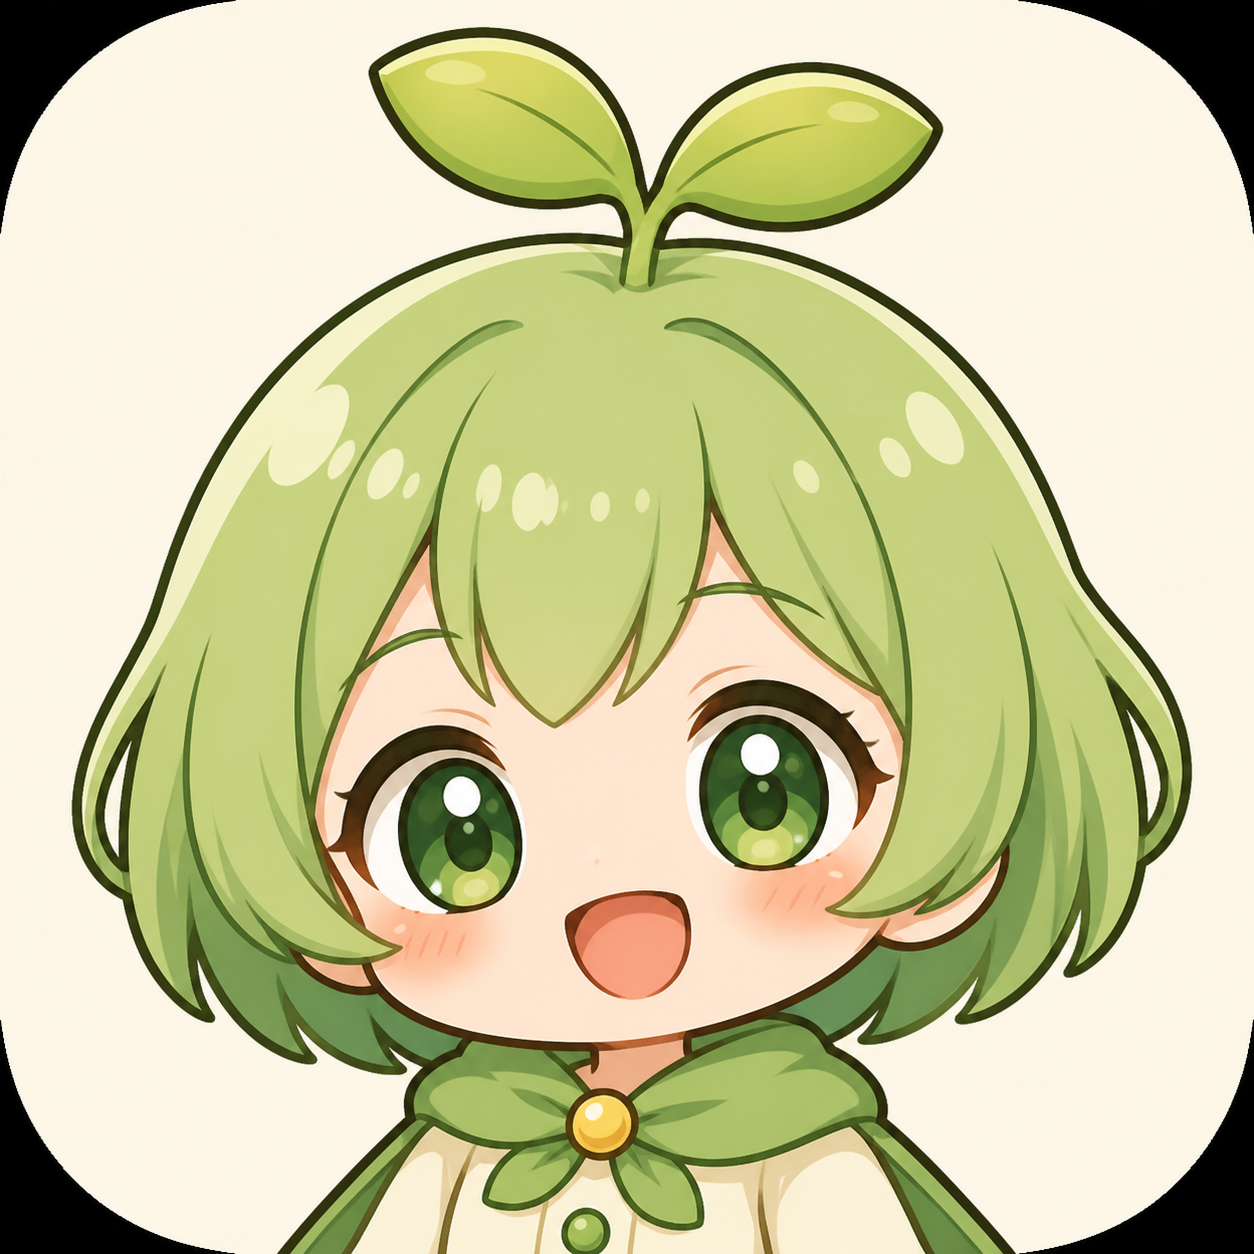
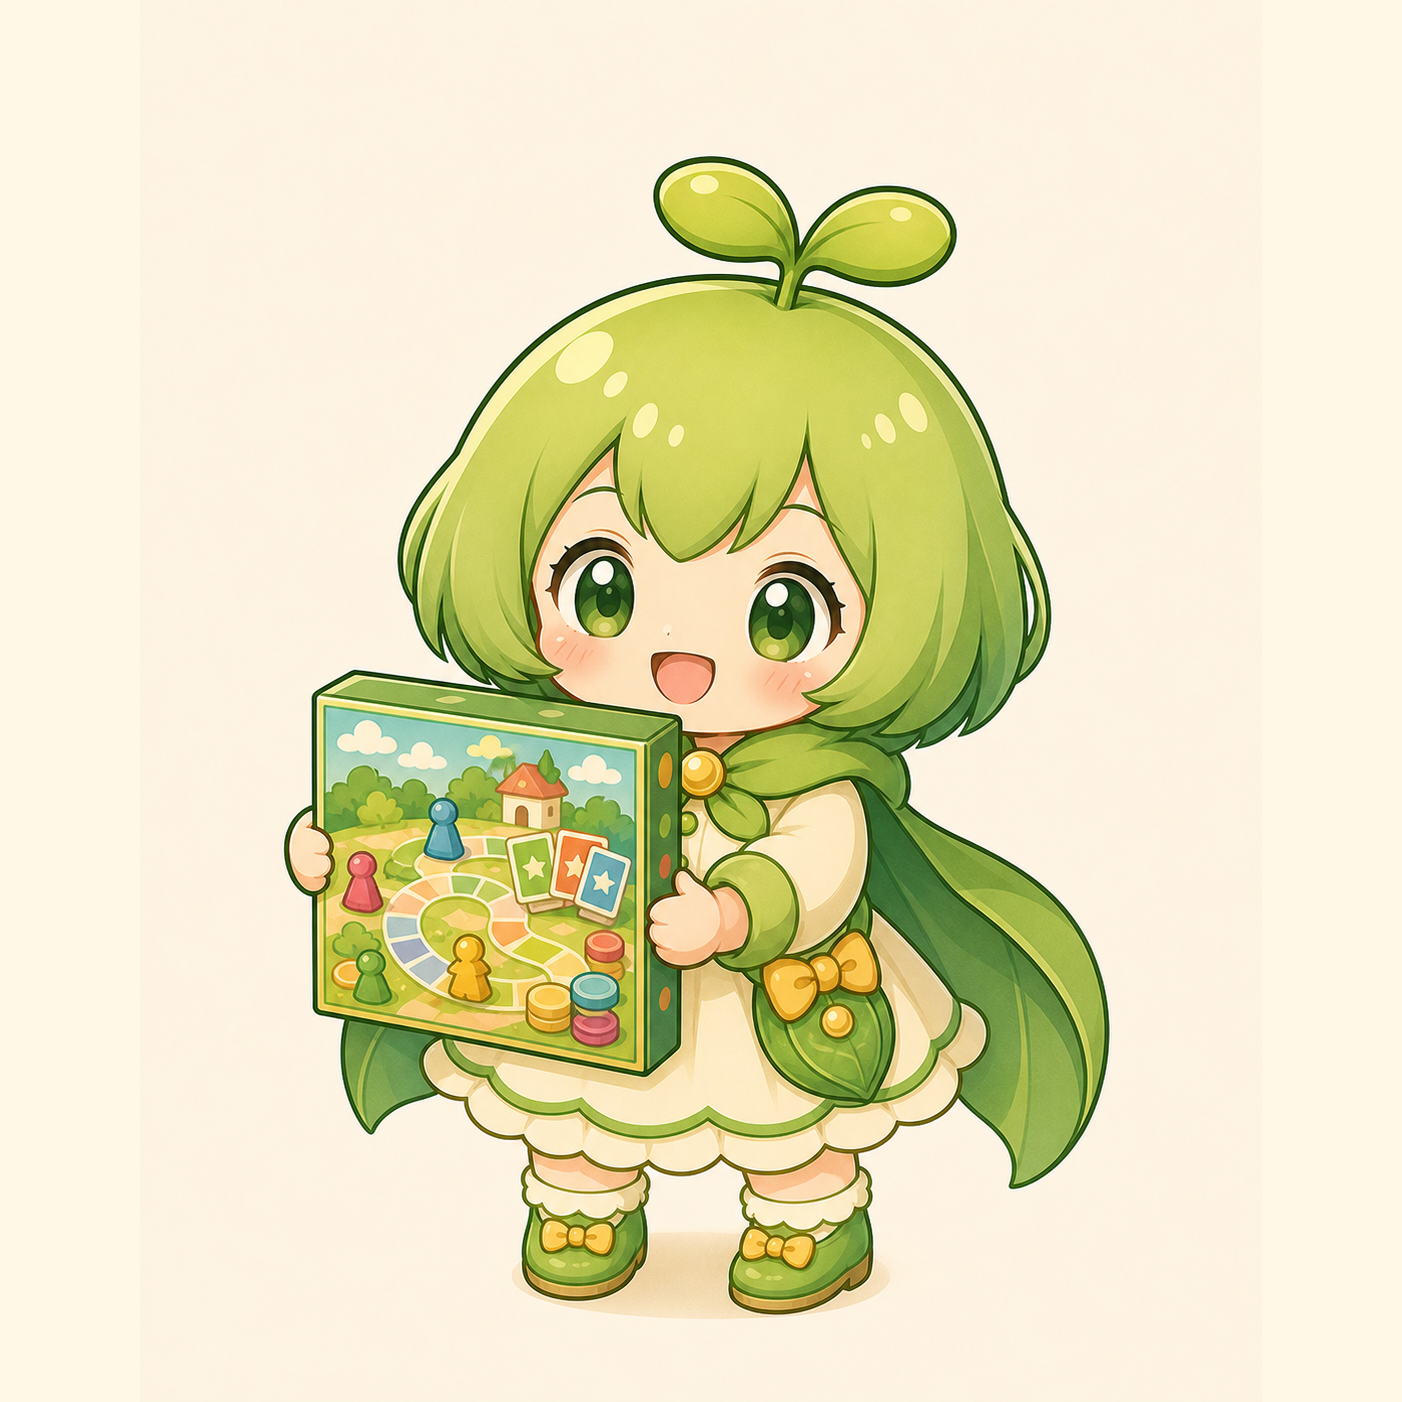
Swap mascot to Mamemaru design

diff --git a/index.html b/index.html
@@ -3,9 +3,9 @@
 <head>
   <meta charset="UTF-8">
   <meta name="viewport" content="width=device-width, initial-scale=1.0">
-  <title>ボドまめちゃんと決める えんどーけのボドゲ予定表</title>
+  <title>まめまるちゃんと決める えんどーけのボドゲ予定表</title>
   <meta name="theme-color" content="#06D6A0">
-  <meta name="description" content="えんどーけのボドゲ大会の日程を、ボドまめちゃんと一緒に決める予定表アプリです。">
+  <meta name="description" content="えんどーけのボドゲ大会の日程を、まめまるちゃんと一緒に決める予定表アプリです。">
   <link rel="manifest" href="manifest.webmanifest">
   <link rel="icon" href="assets/bodomame-chan-icon.png">
   <link rel="apple-touch-icon" href="assets/bodomame-chan-icon.png">
@@ -123,10 +123,12 @@
       min-width: 0;
     }
     .brand-mascot {
-      width: 56px;
-      height: 56px;
+      width: 54px;
+      height: 70px;
       border-radius: 18px;
       flex: 0 0 auto;
+      object-fit: contain;
+      padding: 2px;
     }
     .brand-copy { min-width: 0; }
     .brand-side-icon { margin-left: 2px; }
@@ -570,6 +572,7 @@
       width: 92px;
       aspect-ratio: 1;
       border-radius: 24px;
+      object-fit: contain;
     }
     .empty-icons {
       display: flex;
@@ -944,6 +947,7 @@
       width: 150px;
       aspect-ratio: 1;
       border-radius: 28px;
+      object-fit: contain;
     }
     .welcome-card h2 { font-size: 1.45em; margin-bottom: 6px; font-weight: 900; }
     .welcome-card p { color: var(--text-muted); }
@@ -1053,7 +1057,7 @@
       .app-bar { padding: 10px 12px; align-items: flex-start; }
       .app-bar h1 { font-size: 0.92em; }
       .brand { gap: 8px; }
-      .brand-mascot { width: 48px; height: 48px; border-radius: 16px; }
+      .brand-mascot { width: 46px; height: 62px; border-radius: 16px; }
       .brand-side-icon { display: none; }
       .brand-kicker { font-size: 0.68em; }
       .app-bar-actions { gap: 6px; justify-content: flex-end; }
@@ -1092,9 +1096,9 @@
   <!-- App bar -->
   <div class="app-bar">
     <div class="brand">
-      <img class="mascot-img brand-mascot" src="assets/bodomame-chan-icon.png" alt="ボドまめちゃん">
+      <img class="mascot-img brand-mascot" src="assets/bodomame-chan-icon.png" alt="まめまるちゃん">
       <div class="brand-copy">
-        <span class="brand-kicker">ボドまめちゃんと決める</span>
+        <span class="brand-kicker">まめまるちゃんと決める</span>
         <h1>えんどーけのボドゲ予定表</h1>
       </div>
       <span class="game-icon box brand-side-icon" aria-hidden="true"></span>
@@ -1110,11 +1114,11 @@
     <section id="welcome-view" class="hidden">
       <div class="welcome-card">
         <div class="welcome-hero">
-          <img class="mascot-img welcome-mascot" src="assets/bodomame-chan-main.png" alt="ボドまめちゃん">
+          <img class="mascot-img welcome-mascot" src="assets/bodomame-chan-main.png" alt="まめまるちゃん">
           <div>
-            <span class="mascot-name">ボドまめちゃん</span>
+            <span class="mascot-name">まめまるちゃん</span>
             <h2>ボドゲ会、まめに決めよう</h2>
-            <p>最初にメンバーを登録しましょう。ボドまめちゃんが、行ける日と候補日を見やすくまとめます。</p>
+            <p>最初にメンバーを登録しましょう。まめまるちゃんが、行ける日と候補日を見やすくまとめます。</p>
           </div>
         </div>
 
@@ -1149,9 +1153,9 @@
         </div>
 
         <div class="mascot-guide">
-          <img class="mascot-img guide-mascot" src="assets/bodomame-chan-icon-guide.png" alt="ボドまめちゃん">
+          <img class="mascot-img guide-mascot" src="assets/bodomame-chan-icon-guide.png" alt="まめまるちゃん">
           <div>
-            <div class="guide-title">ボドまめちゃんの見かた</div>
+            <div class="guide-title">まめまるちゃんの見かた</div>
             <div class="guide-text">行ける日は <span class="hint-inline o">○</span>、迷う日は <span class="hint-inline tri">△</span>。入力が集まると、候補日をおすすめ順に並べます。</div>
           </div>
         </div>
@@ -1203,7 +1207,7 @@
 
       <!-- Suggestions -->
       <div class="card">
-        <h2><span class="game-icon pawns" aria-hidden="true"></span> ボドまめちゃんのおすすめ候補日 <span id="owner-hint" class="text-muted hidden">— 「決定」で実施日に確定</span></h2>
+        <h2><span class="game-icon pawns" aria-hidden="true"></span> まめまるちゃんのおすすめ候補日 <span id="owner-hint" class="text-muted hidden">— 「決定」で実施日に確定</span></h2>
         <div id="suggestions-list"></div>
       </div>
     </section>
@@ -1223,7 +1227,7 @@
       <div id="date-modal-decided-section" class="modal-section hidden">
         <div class="decided-banner" style="margin: 0;">
           <div class="decided-title decided-with-mascot">
-            <img class="mascot-img mascot-avatar" src="assets/bodomame-chan-icon-celebrate.png" alt="ボドまめちゃん">
+            <img class="mascot-img mascot-avatar" src="assets/bodomame-chan-icon-celebrate.png" alt="まめまるちゃん">
             <span>この日は実施日に決定しています！</span>
           </div>
         </div>
@@ -1308,7 +1312,7 @@
     </div>
   </div>
 
-  <footer>🌱 ボドまめちゃんがGoogle Sheetsに予定をしまっておきます</footer>
+  <footer>🌱 まめまるちゃんがGoogle Sheetsに予定をしまっておきます</footer>
 
   <script>
     // ============== STATE ==============
@@ -1786,8 +1790,8 @@
       if (dates.length === 0) {
         container.innerHTML = `
           <div class="mascot-empty">
-            <img class="mascot-img empty-mascot" src="assets/bodomame-chan-empty.png" alt="ボドまめちゃん">
-            <strong>ボドまめちゃんが待機中です</strong>
+            <img class="mascot-img empty-mascot" src="assets/bodomame-chan-empty.png" alt="まめまるちゃん">
+            <strong>まめまるちゃんが待機中です</strong>
             <div class="empty-icons"><span class="game-icon dice" aria-hidden="true"></span><span class="game-icon cards" aria-hidden="true"></span></div>
             <div>カレンダーから○か△を入れてみてください！</div>
           </div>
@@ -1873,10 +1877,10 @@
       if (candidates.length === 0) {
         container.innerHTML = `
           <div class="mascot-empty">
-            <img class="mascot-img empty-mascot" src="assets/bodomame-chan-empty.png" alt="ボドまめちゃん">
+            <img class="mascot-img empty-mascot" src="assets/bodomame-chan-empty.png" alt="まめまるちゃん">
             <strong>おすすめはまだありません</strong>
             <div class="empty-icons"><span class="game-icon pawns" aria-hidden="true"></span><span class="game-icon box" aria-hidden="true"></span></div>
-            <div>○や△が入ると、ボドまめちゃんが候補日を並べます。</div>
+            <div>○や△が入ると、まめまるちゃんが候補日を並べます。</div>
           </div>
         `;
         return;

diff --git a/sw.js b/sw.js
@@ -1,4 +1,4 @@
-const CACHE_NAME = 'bodomame-scheduler-v9';
+const CACHE_NAME = 'bodomame-scheduler-v10';
 const APP_SHELL = [
   './',
   './index.html',
